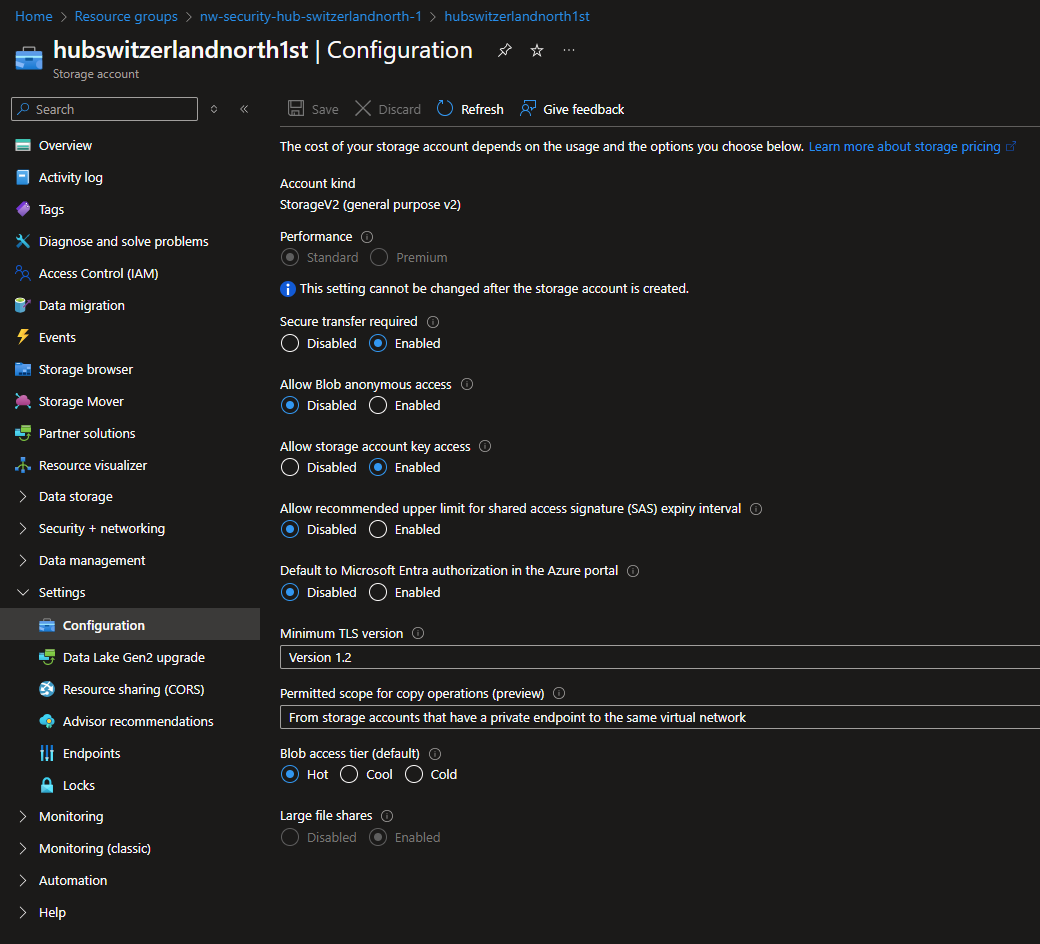
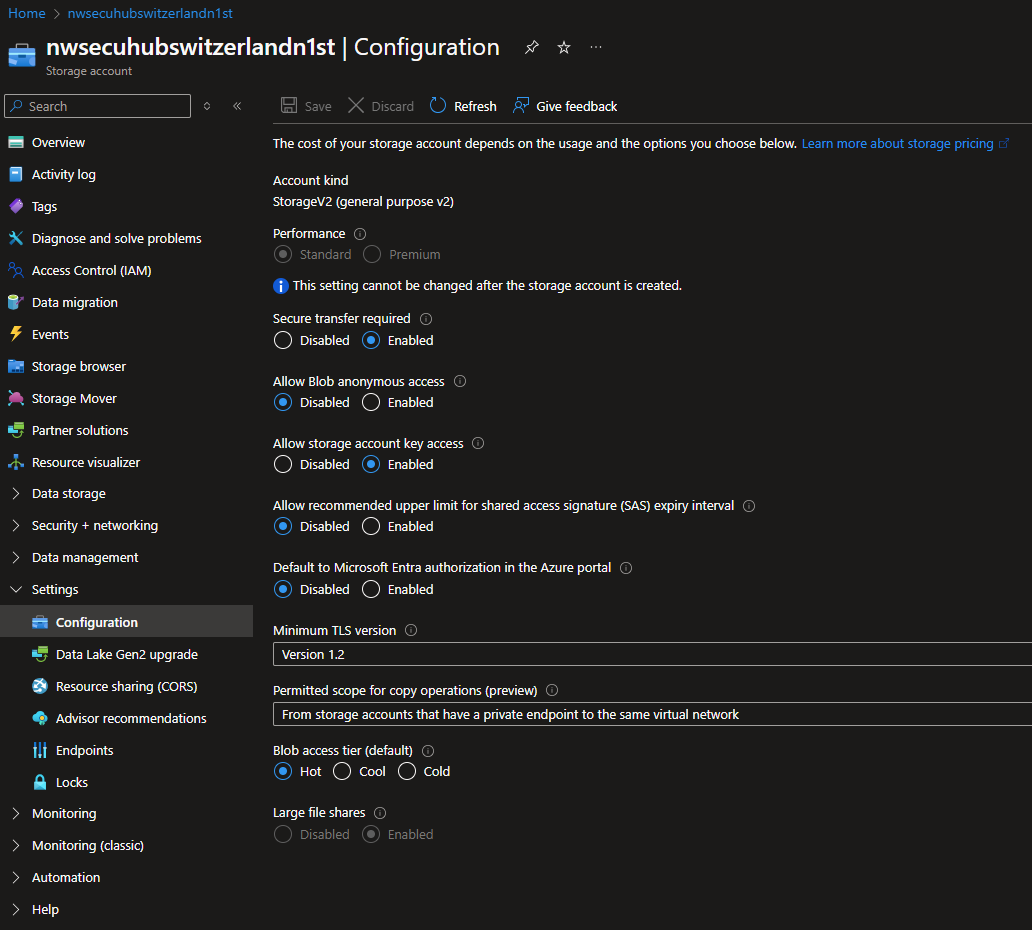
More changes

Changed region(s): [[0.0, 0.0, 1.0, 0.9978], [0.2481, 0.0935, 0.9922, 0.3742], [0.2481, 0.4054, 0.4341, 0.4366]]

diff --git a/docs/tutorial/03/hub/st.md b/docs/tutorial/03/hub/st.md
@@ -68,7 +68,7 @@ Search for "Storage Account" in the Azure Portal's Market Place.
 > [!TIP]
 > You can also choose _"From storage accounts that have a private endpoint to the same virtual network"_.
 
-![Advanced](../../../../assets/img/azure/solution/vnets/hub/st/create/avanced-security.png)
+![Advanced](../../../../assets/img/azure/solution/vnets/hub/st/create/advanced-security.png)
 
 ##### Networking
 
@@ -88,7 +88,7 @@ We will start by "poking a hole" and adding our Public IP address to test connec
 
 <!-- prettier-ignore-start -->
 > [!CRITICAL]
-> **Virtual networks**: This is ONLY for **Service Endpoints**, the old way, which will redirect traffic to the Public IP address of the Storage Account. **NOT** for **Private Endpoints**.
+> **Virtual networks**: This is ONLY for **Service Endpoints** (the old way), which will redirect traffic to the Public IP address of the Storage Account. **NOT** for **Private Endpoints**.
 <!-- prettier-ignore-end -->
 
 ##### IP Addresses
@@ -134,6 +134,15 @@ You should enable this only when the data requires that level of durability.
 Make sure that all the naming is solid, and that it is in the expected location region.
 
 ![Review](../../../../assets/img/azure/solution/vnets/hub/st/create/review.png)
+
+#### Settings
+
+##### Configuration
+
+Ensure that **Access Keys** are allowed
+
+![Configuration](../../../../assets/img/azure/solution/vnets/hub/st/settings/configuration.png)
+
 
 ### Private Endpoint
 
@@ -187,6 +196,8 @@ Point to the **Private DNS Zone** created in the previous step.
 
 #### Resources
 
+If you navigate "Resource visualizer", it should show the "[P]rivate [E]nd[p]oint" connected to the "Storage Account". and to the "[N]etwork [I]nterfa[c]e".
+
 ![Resource Diagram](../../../../assets/img/azure/solution/vnets/hub/st/pep/resources/01.png)
 
 #### Settings
@@ -198,10 +209,6 @@ Now that the **Private Endpoint** is created, it should have self-registered aga
 ![DNS configuration](../../../../assets/img/azure/solution/vnets/hub/st/pep/settings/dns.png)
 
 ## Reconfigure Storage Account
-
-##### Configuration
-
-![Configuration](../../../../assets/img/azure/solution/vnets/hub/st/settings/configuration.png)
 
 #### Reconfigure
 
@@ -217,20 +224,31 @@ From Either **Your Laptop** or the **Jumpbox**
 
 ![Publicly accessible](../../../../assets/img/azure/solution/vnets/hub/st/explorer/from_public/allowed.png)
 
-##### Step 2: Remove Public IP
+##### Step 2: Disable access from Public IP
 
-1. Go to "Security + networking" > "Networking" > "Firewalls and virtual networks" > "Firewall"
-1. Remove the Public IP address you added in the previous step.
+> [!WARNING]
+> After Ignite Microsoft '24, this section changed
 
-**Before**:
+1. Go to "Security + networking" > "Networking" > "Public access"
+1. Click on **[ Manage ]** under "Public network access"
+1. Change "Public network access" to **"Disable"**
 
-![Before](../../../../assets/img/azure/solution/vnets/hub/st/security_n_networking/networking/firewall_and_virtual_networks/01.png)
+**Disable**:
+
+![Disable](../../../../assets/img/azure/solution/vnets/hub/st/security_n_networking/networking/public_access/public_network_access/disable.png)
 
 **After**:
 
-![After](../../../../assets/img/azure/solution/vnets/hub/st/security_n_networking/networking/firewall_and_virtual_networks/02.png)
+![After](../../../../assets/img/azure/solution/vnets/hub/st/security_n_networking/networking/public_access/after.png)
 
-Ideally, we would just change _"Plublic network access"_ to **"Disabled"**. But let's take it 1 step at the time.
+1. Go to "Security + networking" > "Networking" > "Public access"
+1. Now, if you check **[ View ]** under "Resource settings: ..."
+1. Everything should be grayed out
+
+![Resource Access Settings](../../../../assets/img/azure/solution/vnets/hub/st/security_n_networking/networking/public_access/resource_settings/disabled.png)
+
+> [!TIP]
+> Remove the IP Address **BEFORE** Disabling the Public Access
 
 ###### Step 3: Download data
 
@@ -261,7 +279,7 @@ You could add an **inbound** rule to allow traffic from our entire `10.x.x.x`
   - `10.0.0.0/8`: This includes
     - `hub`'s vnet `10.1.x.x`
     - `spoke`'s vnet `10.2.x.x`
-- **Destination**: `{short_prefix}hub{short_region}{short_id}st-pep-asg`
+- **Destination**: `{storage_account_name}-pep-asg`
 
 ![Inbound](../../../../assets/img/azure/solution/vnets/hub/vnet/snets/default/nsg/rules/inbound/02.png)
 
@@ -270,13 +288,13 @@ You could add an **inbound** rule to allow traffic from our entire `10.x.x.x`
 
 ##### Scenario 2: More explicit minimum security
 
-You could add an **inbound** rule to allow traffic from our entire `10.x.x.x`
+You could add an **inbound** rule to allow traffic from `10.1.x.x` and `10.2.x.x` explicitly.
 
 - **Name**: `allow-private-to-storage`
 - **Source**:
   - `10.1.0.0/16`
   - `10.2.0.0/16`
-- **Destination**: `{short_prefix}hub{short_region}{short_id}st-pep-asg`
+- **Destination**: `{storage_account_name}-pep-asg`
 
 > [!IMPORTANT]
 > What happens if a bad actor creates a VM inside `hub`, from a `10.1.4.5` ?
@@ -286,13 +304,13 @@ You could add an **inbound** rule to allow traffic from our entire `10.x.x.x`
 ##### Scenario 3: More security
 
 1. Remember the ASG we created for the jumpboxes (currently only 1)? We'll use that instead of the entire `10.1.x.x`.
-1. Also, why allow the entirety of `10.2.x.x`, when we know the `default` subnet is only 1K IPs? `10.2.0-3.0/22`
+1. Also, why allow the entirety of `10.2.x.x`, when we know the `default` `subnet` is only 1K IPs? `10.2.0-3.0/22`
 
 - **Name**: `allow-private-to-storage`
 - **Source**:
-  - ~~`10.1.0.0/16`~~ `{prefix}-hub-{short_region}-{short_id}-vm-jump-asg`
+  - ~~`10.1.0.0/16`~~ `{jumpbox_name}-pep-asg`
   - ~~`10.2.0.0/16`~~ `10.2.0.0/22`
-- **Destination**: `{short_prefix}hub{short_region}{short_id}st-pep-asg`
+- **Destination**: `{storage_account_name}-pep-asg`
 
 > [!WARNING]
 > What happens if a bad actor creates a VM with an IP `10.2.3.4`?
@@ -308,18 +326,12 @@ So we end-up with something like this
 
 - **Name**: `allow-jumpbox-to-storage`
 - **Source**:
-  - `{prefix}-hub-{short_region}-{short_id}-vm-jump-asg`
-- **Destination**: `{short_prefix}hub{short_region}{short_id}st-pep-asg`
+  - `{jumpbox_name}-pep-asg`
+- **Destination**: `{storage_account_name}-pep-asg`
 
 > [!NOTE] > `10.2.x.x`: Will remain TBD
 
 ## Status Check
-
-### Private Endpoint
-
-If you navigate "Resource visualizer", it should show the "[P]rivate [E]nd[p]oint" connected to the "Storage Account". and to the "[N]etwork [I]nterfa[c]e".
-
-![PEP](../../../../assets/img/azure/solution/vnets/hub/st/pep/resources/01.png)
 
 ### Private DNS Zone
 
